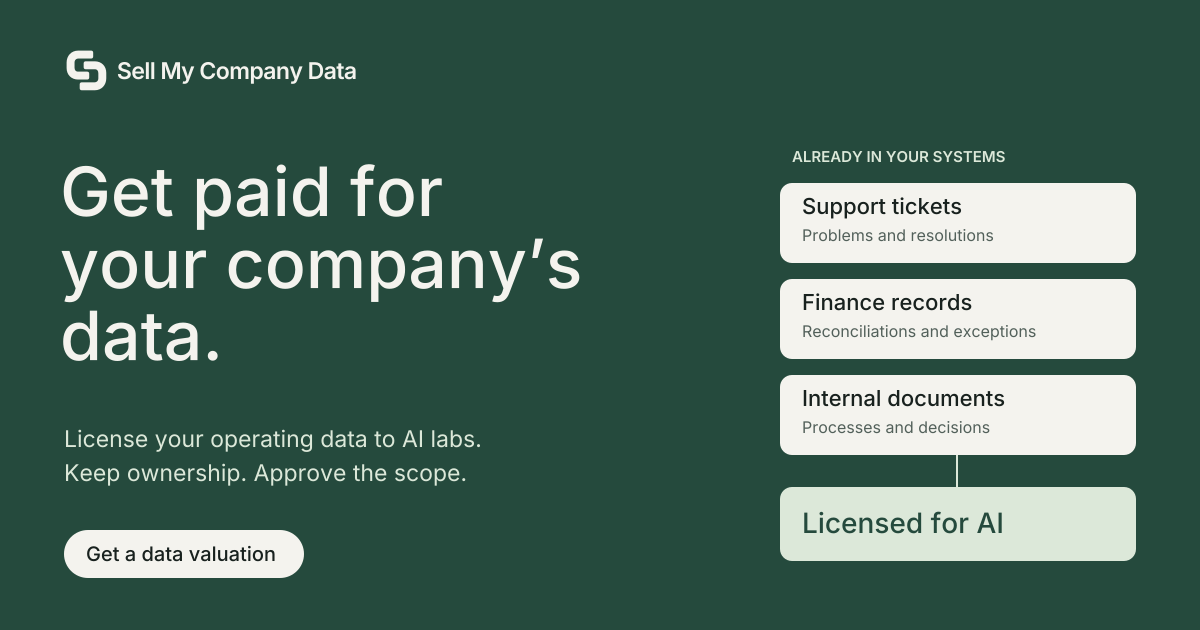
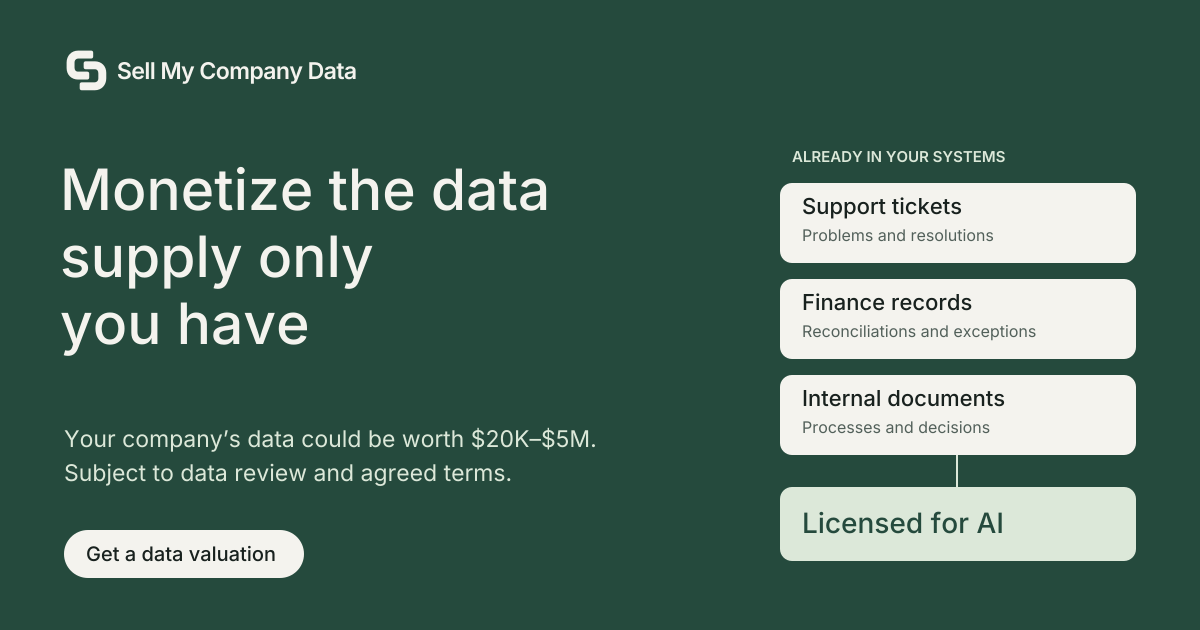
Align seller share artwork with current brand headline (#25)

Changed region(s): [[0.0308, 0.2413, 0.4933, 0.573], [0.0617, 0.6635, 0.4933, 0.7841]]

diff --git a/index.html b/index.html
@@ -20,11 +20,11 @@
 <meta name="twitter:card" content="summary_large_image">
 <meta name="twitter:title" content="License Your Company Data to AI Labs | Sell My Company Data">
 <meta name="twitter:description" content="Explore licensing your company’s operating data to AI labs. Get a valuation, agree the scope and keep ownership of your data.">
-<meta property="og:image" content="https://sellmycompanydata.com/assets/brand/seller-link-preview.png">
+<meta property="og:image" content="https://sellmycompanydata.com/assets/brand/seller-link-preview.png?v=20261010">
 <meta property="og:image:width" content="1200">
 <meta property="og:image:height" content="630">
-<meta property="og:image:alt" content="Get paid for your company’s data. License operating data to AI labs. Keep ownership and approve the scope.">
-<meta name="twitter:image" content="https://sellmycompanydata.com/assets/brand/seller-link-preview.png">
+<meta property="og:image:alt" content="Monetize the data supply only you have. Your company’s data could be worth $20K–$5M, subject to data review and agreed terms.">
+<meta name="twitter:image" content="https://sellmycompanydata.com/assets/brand/seller-link-preview.png?v=20261010">
 <link rel="icon" href="/favicon.ico?v=exchange-2" sizes="any">
 <link rel="icon" href="/favicon-32.png?v=exchange-2" sizes="32x32" type="image/png">
 <link rel="icon" href="/favicon.svg?v=exchange-2" type="image/svg+xml">
@@ -149,7 +149,7 @@
 <link rel="stylesheet" href="/brand.css?v=licensing-4">
 <link rel="stylesheet" href="/audit.css?v=1">
 <script defer src="/site-events.js?v=1"></script>
-<meta name="twitter:image:alt" content="Get paid for your company’s data. License operating data to AI labs. Keep ownership and approve the scope.">
+<meta name="twitter:image:alt" content="Monetize the data supply only you have. Your company’s data could be worth $20K–$5M, subject to data review and agreed terms.">
 <meta name="robots" content="index, follow, max-image-preview:large, max-snippet:-1, max-video-preview:-1">
 <link rel="stylesheet" href="/analytics.css?v=1">
 <script defer src="/analytics-config.js?v=2"></script>
